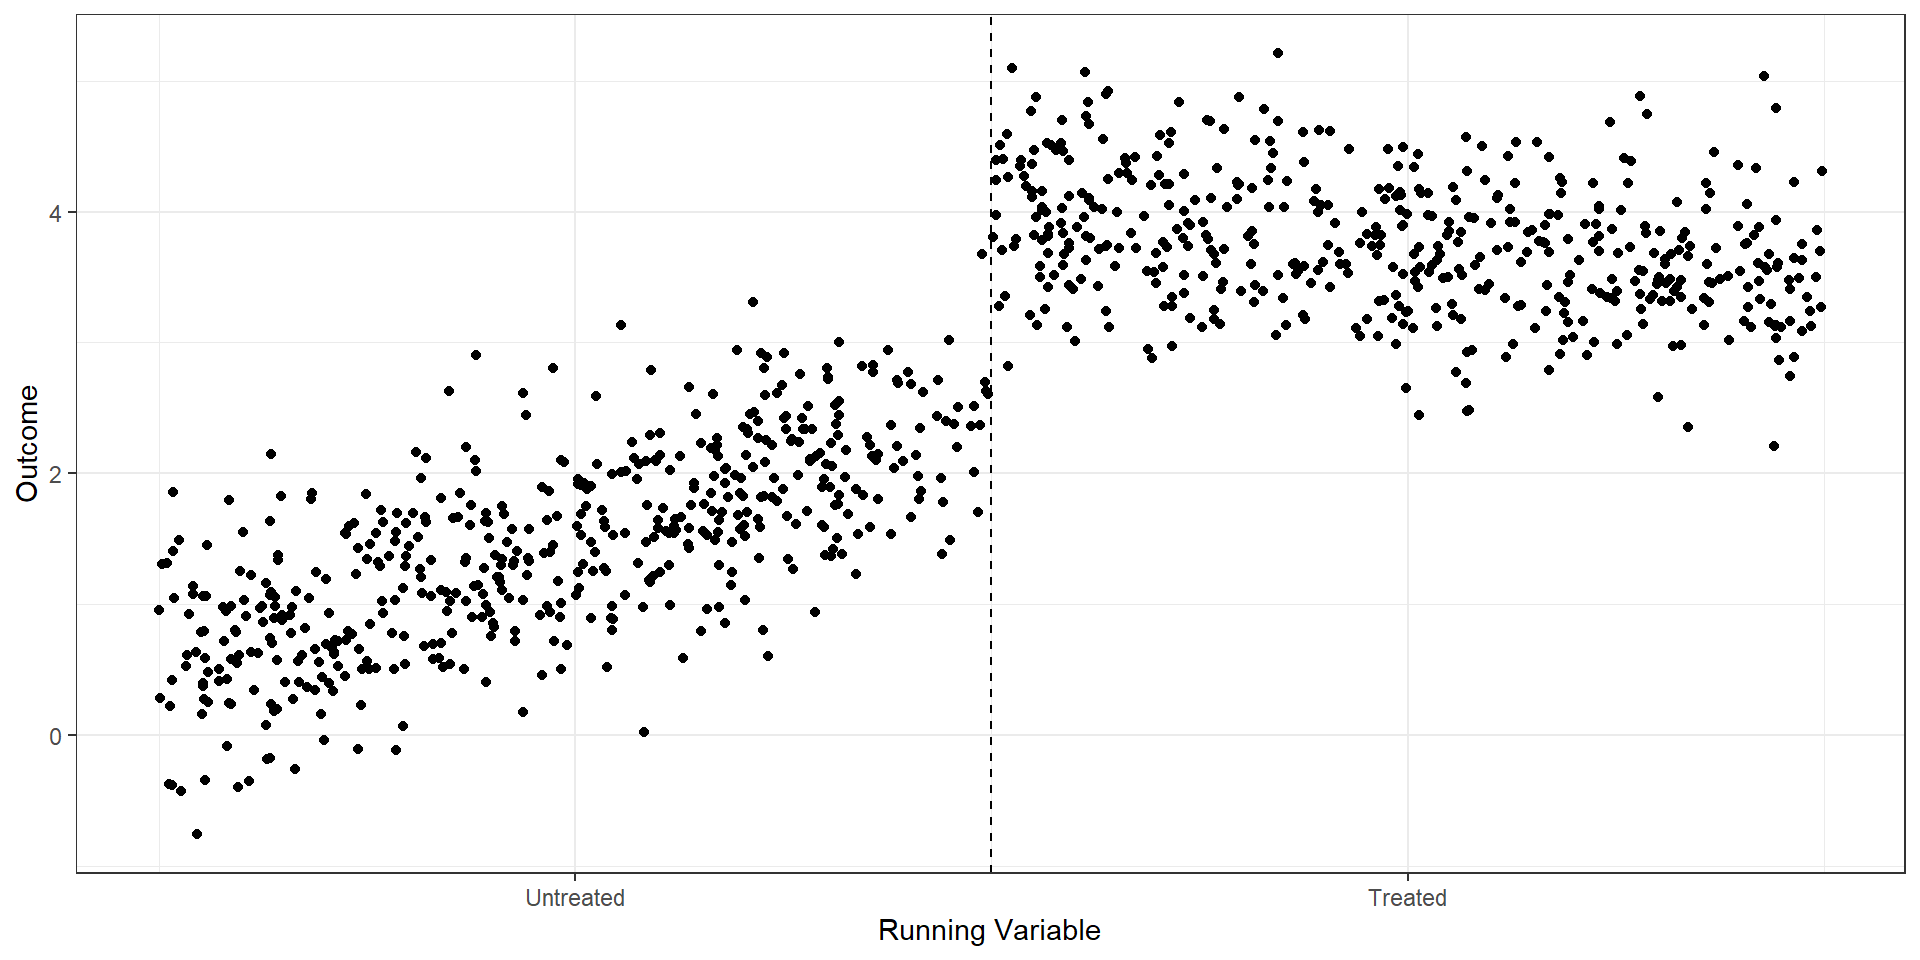
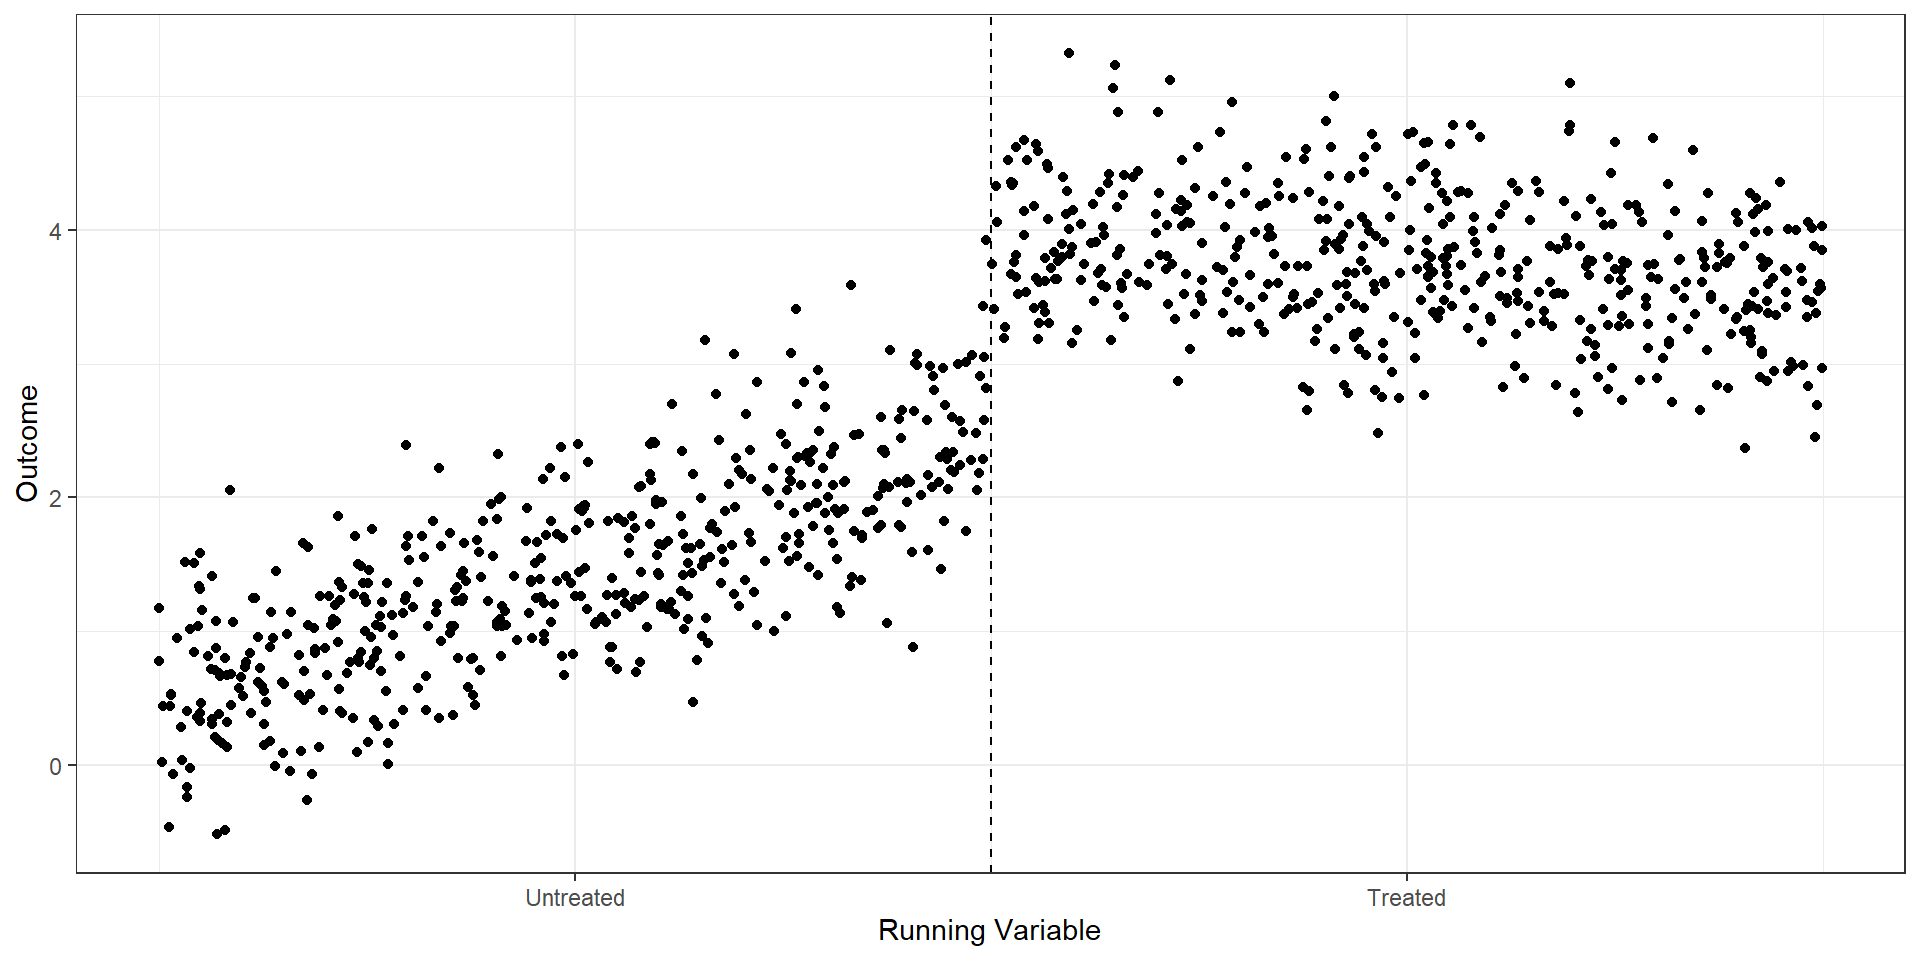
update slides

diff --git a/03-rd/03-rd3.html b/03-rd/03-rd3.html
@@ -498,8 +498,8 @@ Ian McCarthy | Emory University
 <section id="different-averages" class="slide level2">
 <h2>Different averages</h2>
 <ul>
-<li>Mean difference around threshold of 0.2, 3.97 - 2.2 = 1.77</li>
-<li>Mean overall difference, 3.75 - 1.45 = 2.3</li>
+<li>Mean difference around threshold of 0.2, 3.94 - 2.24 = 1.7</li>
+<li>Mean overall difference, 3.75 - 1.45 = 2.29</li>
 </ul>
 </section>
 <section id="more-generally" class="slide level2">
@@ -573,29 +573,21 @@ Ian McCarthy | Emory University
 <span id="cb4-5"><a href="#cb4-5"></a>                    <span class="at">x.label=</span><span class="st">"Running Variable"</span>, </span>
 <span id="cb4-6"><a href="#cb4-6"></a>                    <span class="at">y.label=</span><span class="st">"Outcome"</span>)</span></code><button title="Copy to Clipboard" class="code-copy-button"><i class="bi"></i></button></pre></div>
 </details>
-<div class="cell-output-display">
-<p><img data-src="03-rd3_files/figure-revealjs/unnamed-chunk-7-1.png" width="960"></p>
-</div>
+
 <details>
 <summary>R Code</summary>
 <div class="sourceCode cell-code" id="cb5"><pre class="sourceCode numberSource r number-lines code-with-copy"><code class="sourceCode r"><span id="cb5-1"><a href="#cb5-1"></a>bin.avg <span class="ot">&lt;-</span> <span class="fu">as_tibble</span>(rd.result<span class="sc">$</span>vars_bins)</span>
-<span id="cb5-2"><a href="#cb5-2"></a></span>
-<span id="cb5-3"><a href="#cb5-3"></a>plot.bin <span class="ot">&lt;-</span> bin.avg <span class="sc">%&gt;%</span> <span class="fu">ggplot</span>(<span class="fu">aes</span>(<span class="at">x=</span>rdplot_mean_x,<span class="at">y=</span>rdplot_mean_y)) <span class="sc">+</span> </span>
-<span id="cb5-4"><a href="#cb5-4"></a>  <span class="fu">geom_point</span>() <span class="sc">+</span> <span class="fu">theme_bw</span>() <span class="sc">+</span></span>
-<span id="cb5-5"><a href="#cb5-5"></a>  <span class="fu">geom_vline</span>(<span class="fu">aes</span>(<span class="at">xintercept=</span><span class="dv">1</span>),<span class="at">linetype=</span><span class="st">'dashed'</span>) <span class="sc">+</span></span>
-<span id="cb5-6"><a href="#cb5-6"></a>  <span class="fu">scale_x_continuous</span>(</span>
-<span id="cb5-7"><a href="#cb5-7"></a>    <span class="at">breaks =</span> <span class="fu">c</span>(.<span class="dv">5</span>, <span class="fl">1.5</span>),</span>
-<span id="cb5-8"><a href="#cb5-8"></a>    <span class="at">label =</span> <span class="fu">c</span>(<span class="st">"Untreated"</span>, <span class="st">"Treated"</span>)</span>
-<span id="cb5-9"><a href="#cb5-9"></a>  ) <span class="sc">+</span></span>
-<span id="cb5-10"><a href="#cb5-10"></a>  <span class="fu">xlab</span>(<span class="st">"Running Variable"</span>) <span class="sc">+</span> <span class="fu">ylab</span>(<span class="st">"Outcome"</span>)</span>
-<span id="cb5-11"><a href="#cb5-11"></a></span>
-<span id="cb5-12"><a href="#cb5-12"></a>plot.bin</span></code><button title="Copy to Clipboard" class="code-copy-button"><i class="bi"></i></button></pre></div>
+<span id="cb5-2"><a href="#cb5-2"></a>plot.bin <span class="ot">&lt;-</span> bin.avg <span class="sc">%&gt;%</span> <span class="fu">ggplot</span>(<span class="fu">aes</span>(<span class="at">x=</span>rdplot_mean_x,<span class="at">y=</span>rdplot_mean_y)) <span class="sc">+</span> </span>
+<span id="cb5-3"><a href="#cb5-3"></a>  <span class="fu">geom_point</span>() <span class="sc">+</span> <span class="fu">theme_bw</span>() <span class="sc">+</span></span>
+<span id="cb5-4"><a href="#cb5-4"></a>  <span class="fu">geom_vline</span>(<span class="fu">aes</span>(<span class="at">xintercept=</span><span class="dv">1</span>),<span class="at">linetype=</span><span class="st">'dashed'</span>) <span class="sc">+</span></span>
+<span id="cb5-5"><a href="#cb5-5"></a>  <span class="fu">scale_x_continuous</span>(</span>
+<span id="cb5-6"><a href="#cb5-6"></a>    <span class="at">breaks =</span> <span class="fu">c</span>(.<span class="dv">5</span>, <span class="fl">1.5</span>),</span>
+<span id="cb5-7"><a href="#cb5-7"></a>    <span class="at">label =</span> <span class="fu">c</span>(<span class="st">"Untreated"</span>, <span class="st">"Treated"</span>)</span>
+<span id="cb5-8"><a href="#cb5-8"></a>  ) <span class="sc">+</span></span>
+<span id="cb5-9"><a href="#cb5-9"></a>  <span class="fu">xlab</span>(<span class="st">"Running Variable"</span>) <span class="sc">+</span> <span class="fu">ylab</span>(<span class="st">"Outcome"</span>)</span></code><button title="Copy to Clipboard" class="code-copy-button"><i class="bi"></i></button></pre></div>
 </details>
-<div class="cell-output-display">
-<p><img data-src="03-rd3_files/figure-revealjs/unnamed-chunk-7-2.png" width="960"></p>
 </div>
-</div>
-</section>
+<img data-src="03-rd3_files/figure-revealjs/unnamed-chunk-7-1.png" width="960" class="r-stretch"></section>
 <section id="with-and-without-binning" class="slide level2">
 <h2>With and without binning</h2>
 <div class="columns">
@@ -732,8 +724,8 @@ Ian McCarthy | Emory University
 </div>
 <ul>
 <li>True effect: 1.5</li>
-<li>Standard linear regression with same slopes: 1.64</li>
-<li>RD (linear with same slopes): 1.69</li>
+<li>Standard linear regression with same slopes: 1.51</li>
+<li>RD (linear with same slopes): 1.18</li>
 </ul>
 </section>
 <section id="rd-with-built-in-commands" class="slide level2">
@@ -756,20 +748,20 @@ BW type                       mserd
 Kernel                   Triangular
 VCE method                       NN
 
-Number of Obs.                  520          480
-Eff. Number of Obs.             198          199
+Number of Obs.                  504          496
+Eff. Number of Obs.             159          144
 Order est. (p)                    1            1
 Order bias  (q)                   2            2
-BW est. (h)                   0.399        0.399
-BW bias (b)                   0.608        0.608
-rho (h/b)                     0.657        0.657
-Unique Obs.                     520          480
+BW est. (h)                   0.326        0.326
+BW bias (b)                   0.568        0.568
+rho (h/b)                     0.574        0.574
+Unique Obs.                     504          496
 
 =============================================================================
         Method     Coef. Std. Err.         z     P&gt;|z|      [ 95% C.I. ]       
 =============================================================================
-  Conventional     1.616     0.132    12.281     0.000     [1.358 , 1.873]     
-        Robust         -         -    10.019     0.000     [1.303 , 1.936]     
+  Conventional     1.327     0.122    10.899     0.000     [1.089 , 1.566]     
+        Robust         -         -     9.145     0.000     [1.009 , 1.559]     
 =============================================================================</code></pre>
 </div>
 </div>
